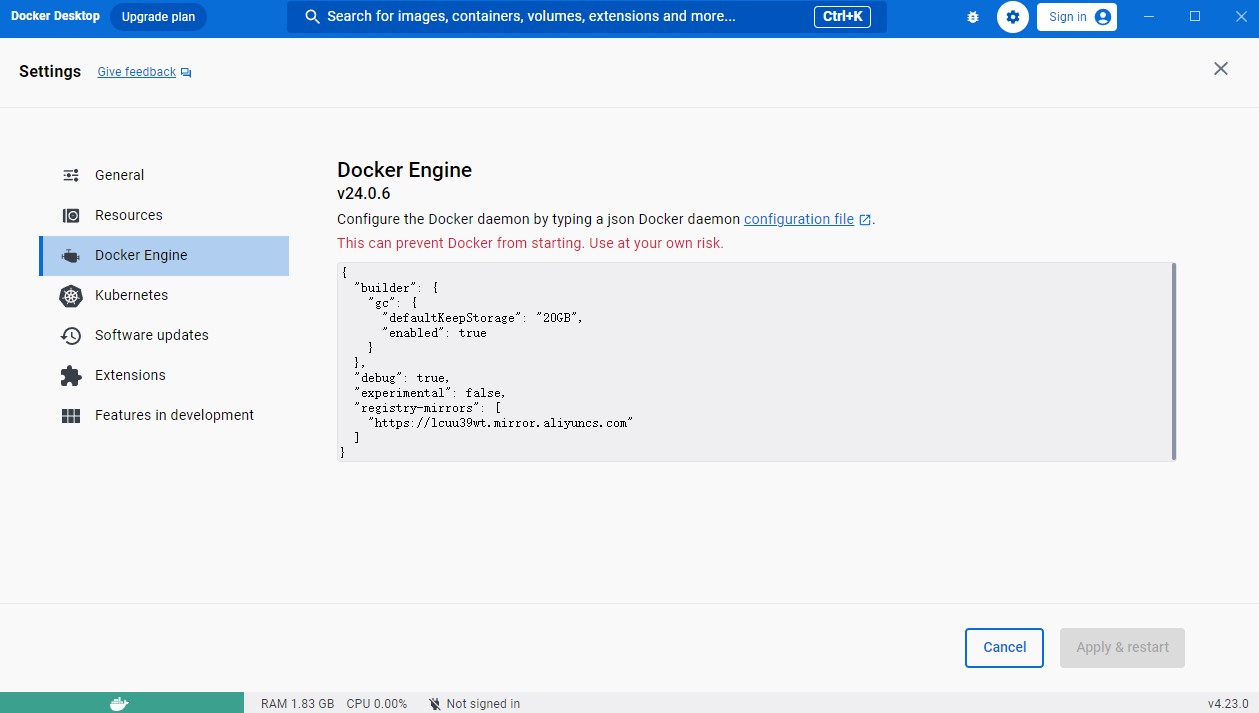
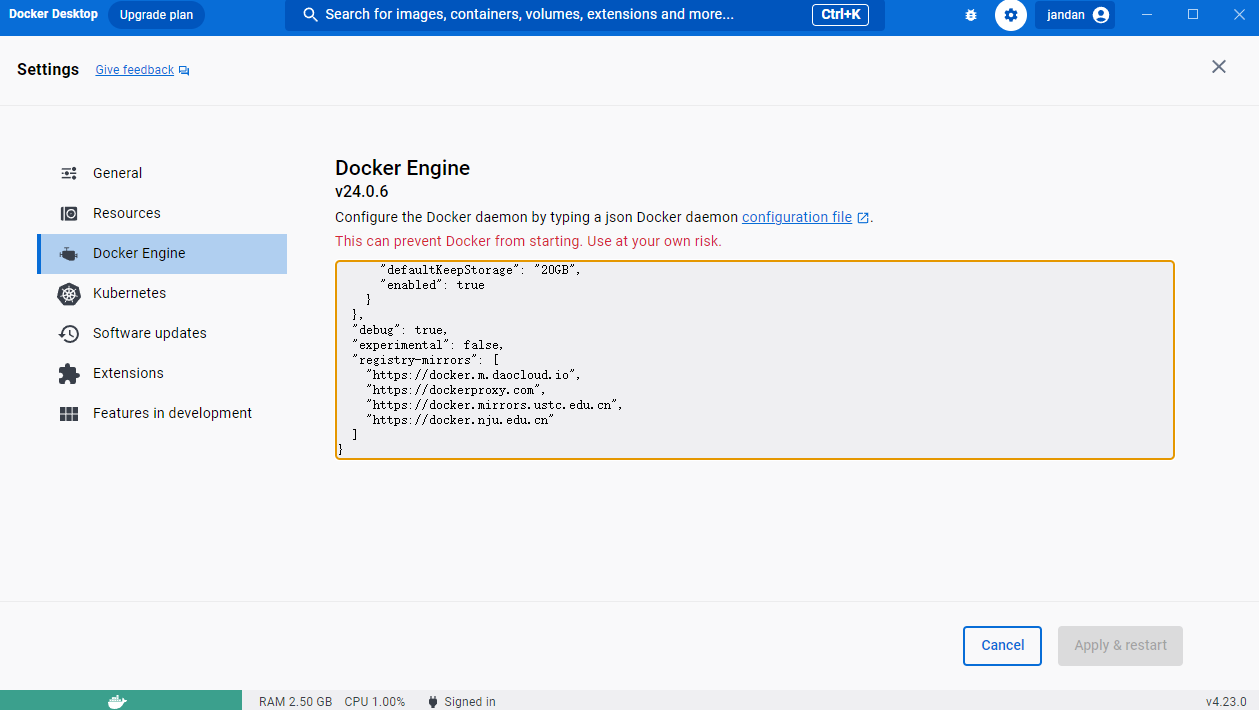
魔法

diff --git a/docs/misc/win10开发环境搭建.md b/docs/misc/win10开发环境搭建.md
@@ -1,11 +1,12 @@
 # 我的 Win10 开发环境搭建
 
-!> 在 Windows 系统中，我平时习惯将开发软件安装在`D`盘的`Develop`目录下
+!> 在 Windows 系统中，我平时习惯将开发软件安装在`D:\Develop`目录下
 
 ## 可能用到的软件
 
 - [Android Studio](https://developer.android.com/studio)
 - [宝塔面板](https://www.bt.cn/new/download.html)
+- [Clash](https://github.com/Fndroid/clash_for_windows_pkg)
 - [Dart](http://gekorm.com/dart-windows/)
 - fvm
 - [git](https://git-scm.com/downloads)
@@ -20,6 +21,32 @@
 - XshellXftpPortable
 - [Docker](https://www.docker.com/products/docker-desktop/)
 - Windows Terminal
+
+## 魔法
+
+这年头当个程序员不会点魔法都没法干活了，我自己用的是`Clash`，Chrome 浏览器插件配合使用的是`Proxy SwitchyOmega`
+
+至于是哪里的魔法学院我就不细说了，我只讲这两个软件如何搭配使用
+
+1. 新建一个情景模式，名字取个自己喜欢的
+
+![](./assets/magic_setup_1.png)
+
+2. 协议选`HTTP`，服务器填`127.0.0.1`，端口`7890`(_因为用的是 Clash_)，然后保存
+
+![](./assets/magic_setup_2.png)
+
+3. 切到自动切换(auto switch)模式，在`2`的位置填入`raw.githubusercontent.com`，模式选刚才创建的，我这里创建的是`Clash`；`3`的位置选刚才创建的模式，`4`的位置填入规则列表的[链接](https://raw.githubusercontent.com/gfwlist/gfwlist/master/gfwlist.txt)，接着点击`5`，最后保存
+
+![](./assets/magic_setup_3.png)
+
+4. 然后`Proxy SwitchyOmega`选择使用自动切换模式
+
+![](./assets/magic_setup_4.png)
+
+5. 最后 PC 端的 Clash 代理模式选择`Global`(全局)就行了，对于访问网站来说开不开系统代理都无所谓，如果是给 PC 软件使用的话，打开一下系统代理就行
+
+![](./assets/magic_setup_5.png)
 
 ## 启用 Windows 的 WSL 功能
 
@@ -260,7 +287,18 @@ rm -rf get-docker.sh
 
 ![](./assets/docker_setup_2.png ':size=80%')
 
-更改镜像仓库地址，我这里使用的是阿里源
+由于众所周知的原因，Docker 官方源 ban 掉国内 ip 了，所以需要更改为国内镜像源
+
+```json
+{
+  "registry-mirrors": [
+    "https://docker.m.daocloud.io",
+    "https://dockerproxy.com",
+    "https://docker.mirrors.ustc.edu.cn",
+    "https://docker.nju.edu.cn"
+  ]
+}
+```
 
 ![](./assets/docker_setup_3.png ':size=80%')
 
